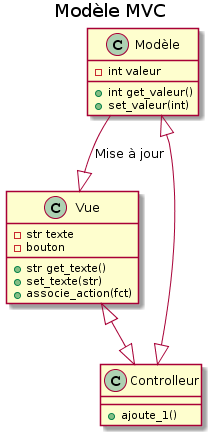
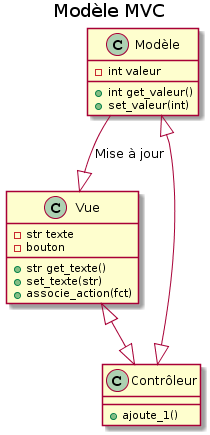
change controller name

diff --git a/tc_poo/content/42/UI-et-programmation-evenementielle.md b/tc_poo/content/42/UI-et-programmation-evenementielle.md
@@ -121,13 +121,13 @@ class Modèle {
     +int get_valeur()
     + set_valeur(int)
 }
-class Controlleur {
+class Contrôleur {
   + ajoute_1()
 }
 
 Vue <|-up- Modèle: Mise à jour
-Controlleur  <|-up-|> Vue
-Controlleur  <|-up-|> Modèle
+Contrôleur  <|-up-|> Vue
+Contrôleur  <|-up-|> Modèle
 
 @enduml
 {{</highlight>}}
